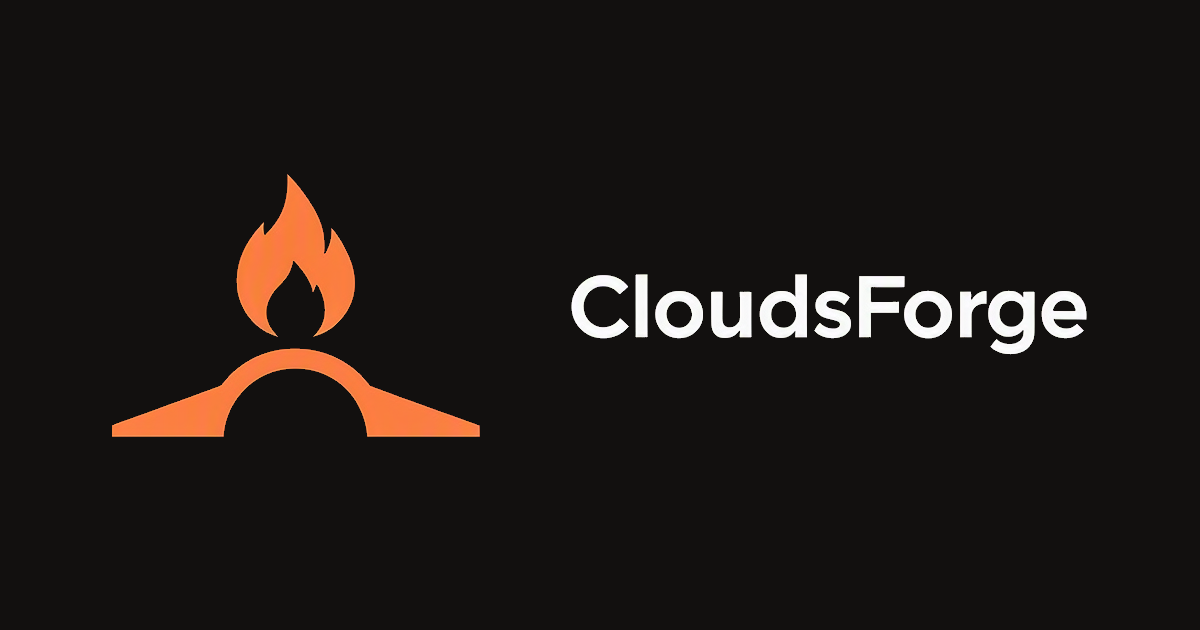
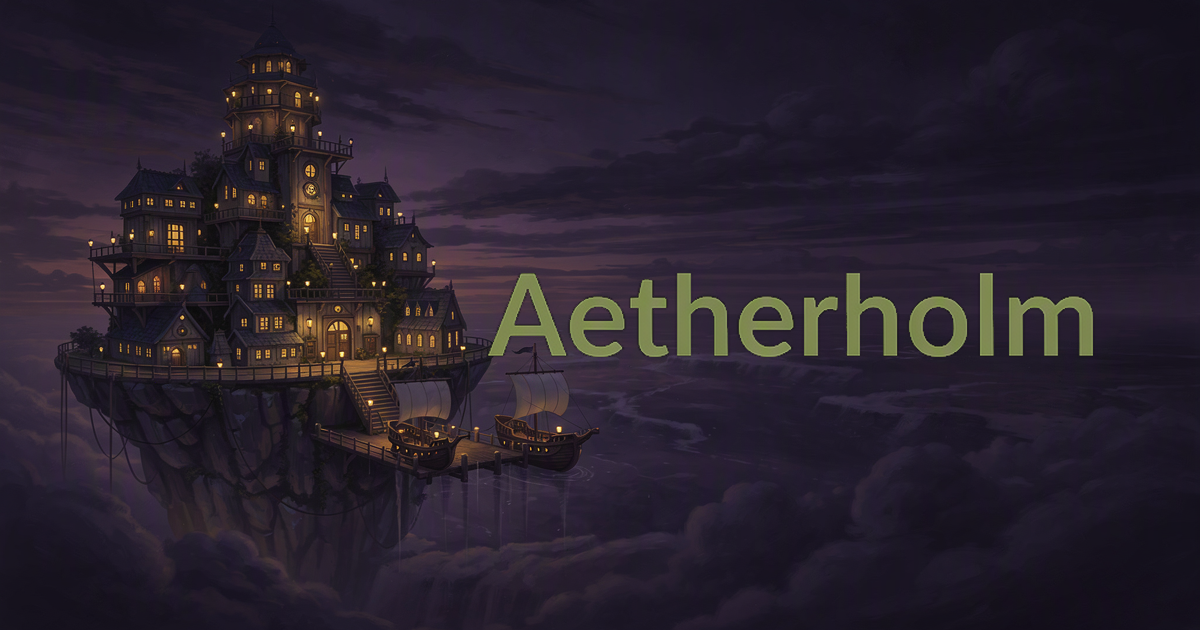
feat(chrome): the title's own face — four files, byte-copied from the assets repo
micro-aetherholm-assets landed (101 files, verify at zero, CI green first run),
so the placeholder chrome goes: favicons and og card are now the generated title
set, byte-identical to assets/title/. The swap is exactly what the README
promised it would be - four files - and the prose in index.html and the README
now describes what IS rather than what was pending. brand-chrome.test.ts
unweakened throughout: both directions, linked-means-shipped and
shipped-means-linked. 205 tests pass.

diff --git a/index.html b/index.html
@@ -37,7 +37,9 @@
       The template's generic favicons, on purpose. micro-aetherholm-assets does not exist yet —
       the art run is the next phase (docs/ecosystem/20-aetherholm.md §11) — and the choice was
       between shipping no icon (the defect three frontends actually shipped) and shipping the
-      estate's generic chrome until the title's own lands. The README records the swap that is
+      title's own chrome, generated by micro-aetherholm-assets and byte-copied from its
+      assets/title set. This line used to say "the estate's generic chrome until the title's own
+      lands"; it landed, and the swap the README described was
       owed; test/brand-chrome.test.ts holds the gate meanwhile.
     -->
     <link rel="icon" type="image/png" sizes="32x32" href="/favicon-32x32.png" />

diff --git a/README.md b/README.md
@@ -133,7 +133,7 @@ and the favicons.
 (`docs/ecosystem/20-aetherholm.md` §11) — so `public/` ships the **estate's generic favicons
 and og card from `micro-web-template`**, linked in both directions and probed in the image.
 The title's real chrome (favicons, og, wordmark — the "Title chrome" row of doc §8) lands with
-the assets repository, and swapping the four files is the whole of that change.
+the assets repository — **done**: the four files in `public/` are the generated title chrome, byte-identical to `micro-aetherholm-assets/assets/title/`, and the brand-chrome suite verifies them in both directions as before.
 `test/brand-chrome.test.ts` is the template's, unweakened.
 
 ## Known gaps — this repository's and the service's
